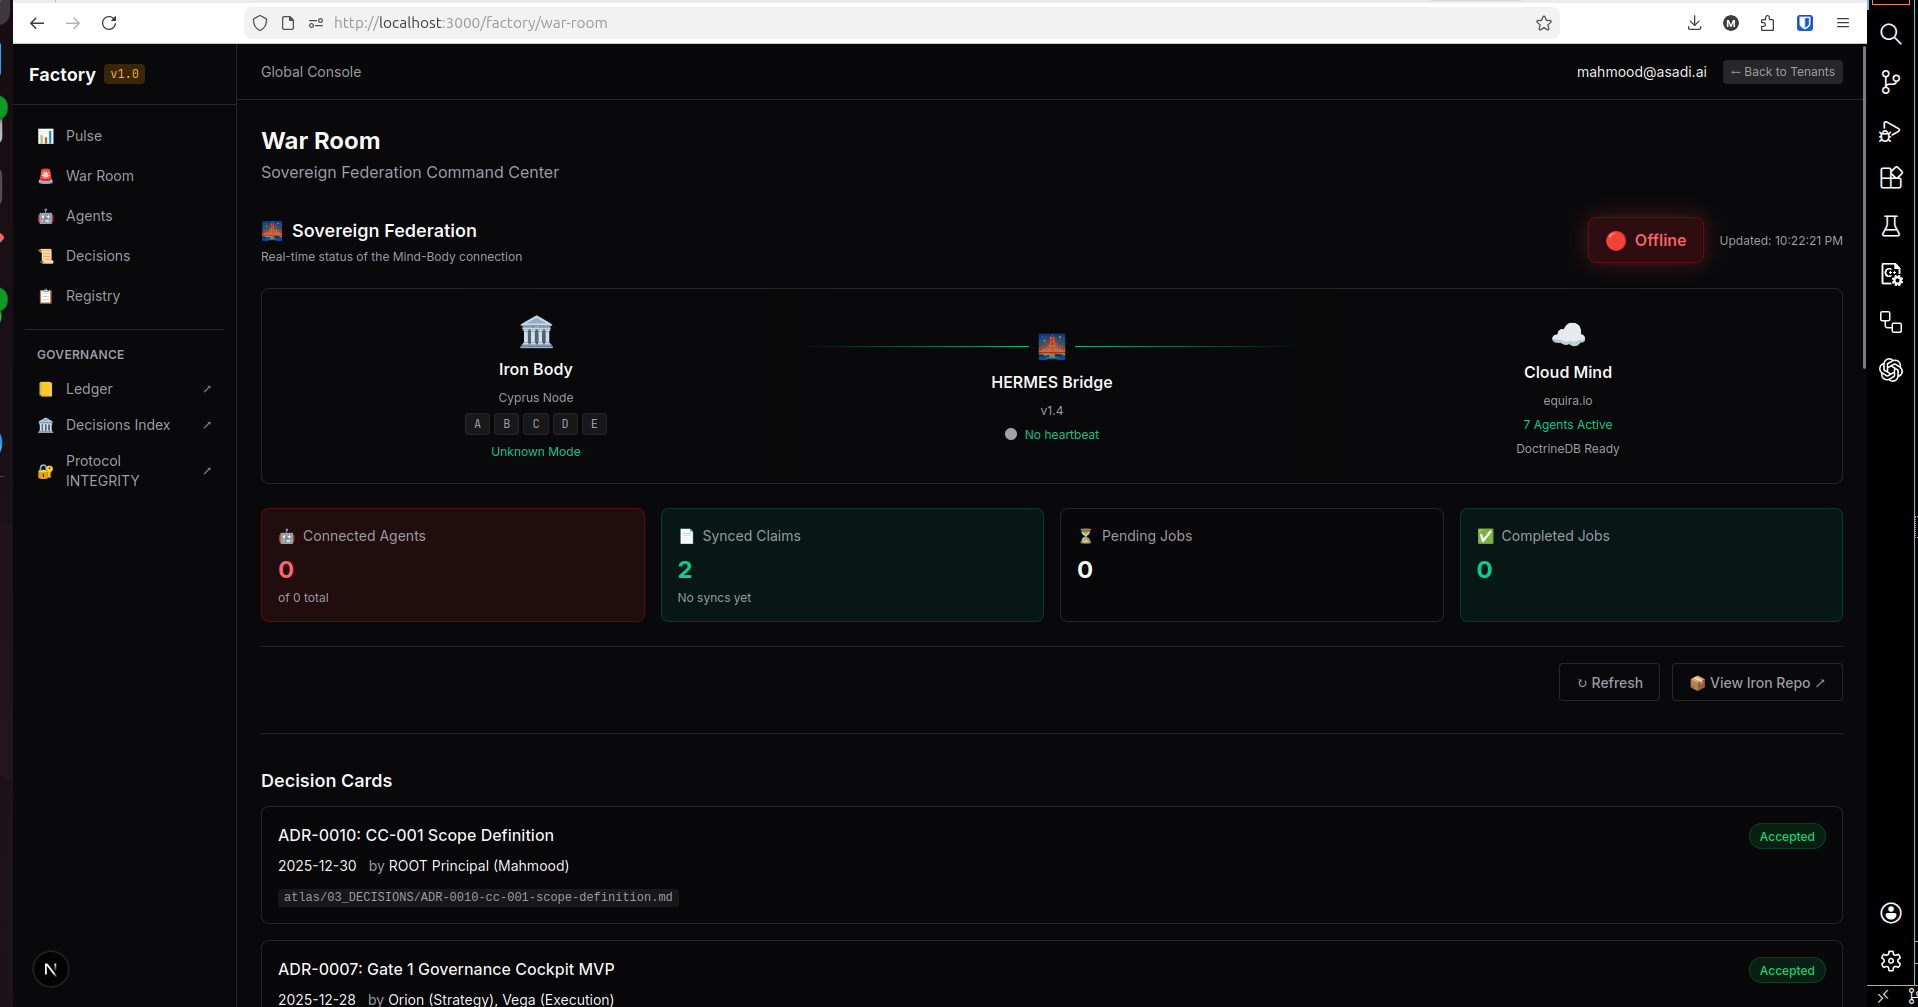
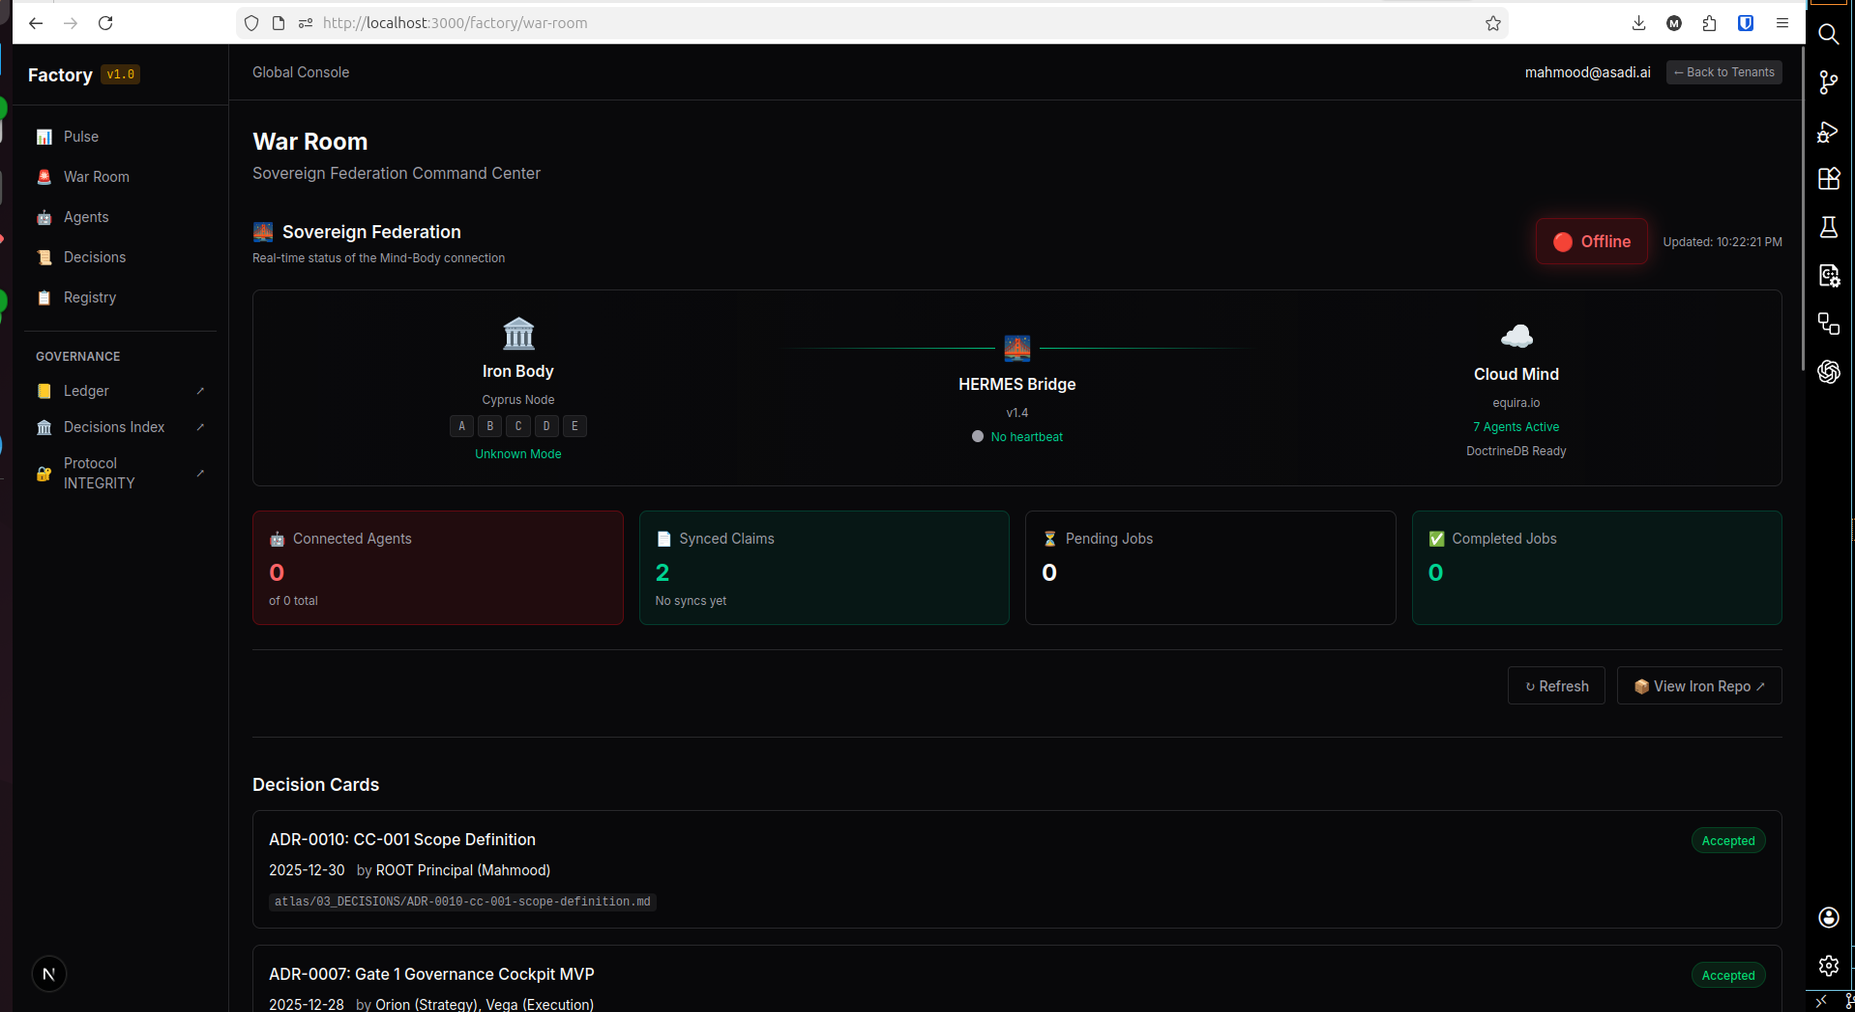
fix(products): normalize all screenshots to 1855×1012 + aspect-ratio rendering

diff --git a/src/components/product-screenshot.tsx b/src/components/product-screenshot.tsx
@@ -23,11 +23,11 @@ export function ProductScreenshot({
   const srcWithCacheBust =
     process.env.NODE_ENV === "development" ? `${src}?id=${instanceId}` : src;
 
-  // Featured cards get taller screenshots
-  const heightClass = featured ? "h-56 sm:h-64" : "h-44 sm:h-52";
+  // Consistent aspect ratio so all cards in a row match height
+  const aspectClass = featured ? "aspect-[16/9]" : "aspect-[16/9]";
 
   return (
-    <div className={`relative ${heightClass} rounded-t-xl overflow-hidden border-b border-white/10 bg-black/20 ring-1 ring-inset ring-white/5`}>
+    <div className={`relative ${aspectClass} rounded-t-xl overflow-hidden border-b border-white/10 bg-black/20 ring-1 ring-inset ring-white/5`}>
       {ok ? (
         <>
           <div className="absolute inset-0 pointer-events-none bg-gradient-to-t from-black/25 via-transparent to-transparent z-10" />
